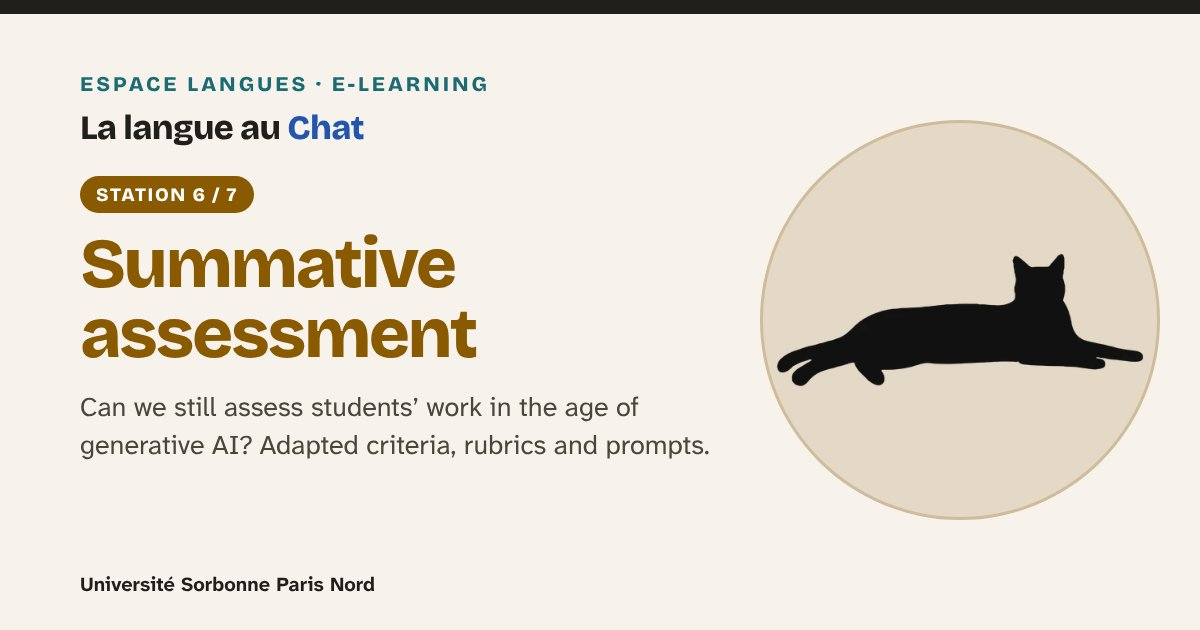
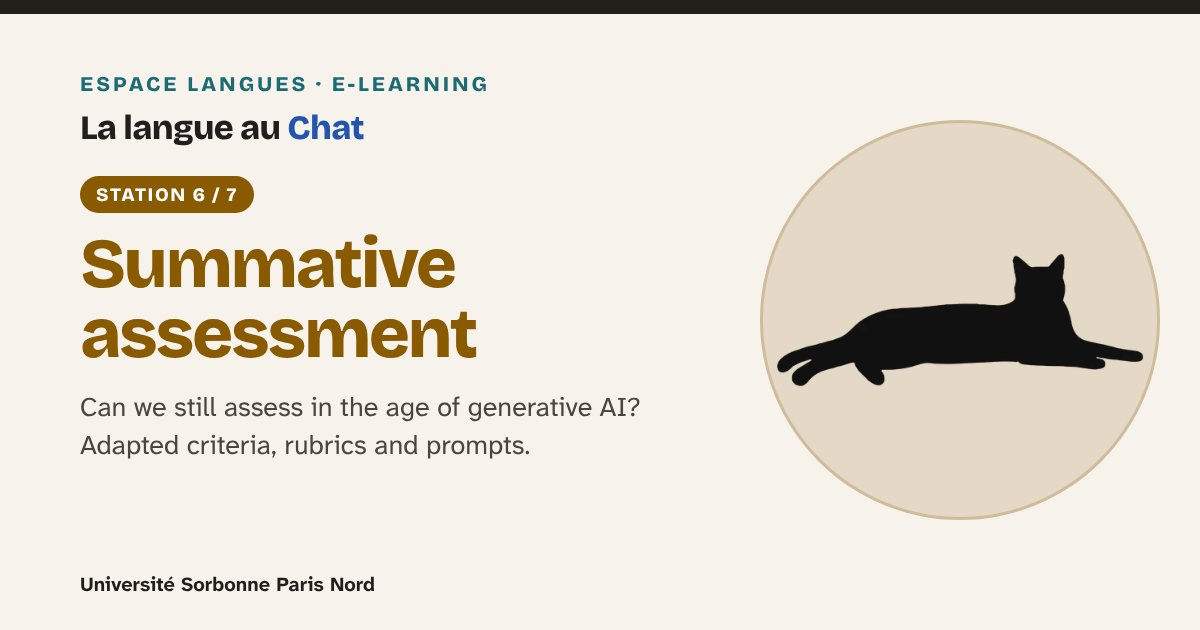
Bouton de copie qui indique la version du prompt (EN/ES), images de partage EN fidèles au français, vignette de la démo 1 refaite depuis la page du site
Claude-Session: https://claude.ai/code/session_01SBniN9QcJnc3Njnz1cARzX

Changed region(s): [[0.0617, 0.6937, 0.5858, 0.7238], [0.2467, 0.6333, 0.555, 0.6635]]

diff --git a/assets/site.js b/assets/site.js
@@ -9,8 +9,8 @@
   var root = document.documentElement;
   var L10N = {
     fr: { copied: "Copié !", copyFail: "Copie impossible : sélectionnez le texte à la main.", stamp: "Tampon posé !", ladder: "Niveaux de l’échelle", one: " résultat", many: " résultats", langRegion: "Langue", langMsg: "Cette page existe aussi en français.", langGo: "Lire en français", langClose: "Fermer", visited: " (station consultée)", defi1: "défi relevé", defiN: "défis relevés" },
-    en: { copied: "Copied!", copyFail: "Copy failed: please select the text manually.", stamp: "Stamp added!", ladder: "Scale levels", one: " result", many: " results", langRegion: "Language", langMsg: "This page is also available in English.", langGo: "Read in English", langClose: "Close", visited: " (visited)", defi1: "challenge completed", defiN: "challenges completed" },
-    es: { copied: "¡Copiado!", copyFail: "No se ha podido copiar: selecciona el texto manualmente.", stamp: "¡Sello puesto!", ladder: "Niveles de la escala", one: " resultado", many: " resultados", langRegion: "Idioma", langMsg: "Esta página también está disponible en español.", langGo: "Leer en español", langClose: "Cerrar", visited: " (visitada)", defi1: "reto superado", defiN: "retos superados" }
+    en: { copied: "Copied!", copyFail: "Copy failed: please select the text manually.", stamp: "Stamp added!", ladder: "Scale levels", one: " result", many: " results", langRegion: "Language", langMsg: "This page is also available in English.", langGo: "Read in English", langClose: "Close", visited: " (visited)", defi1: "challenge completed", defiN: "challenges completed", pv: [ [ "Copy the prompt (original, FR)", "Original prompt (FR) copied!" ], [ "Copy the prompt (adaptable, EN)", "Adaptable prompt (EN) copied!" ] ] },
+    es: { copied: "¡Copiado!", copyFail: "No se ha podido copiar: selecciona el texto manualmente.", stamp: "¡Sello puesto!", ladder: "Niveles de la escala", one: " resultado", many: " resultados", langRegion: "Idioma", langMsg: "Esta página también está disponible en español.", langGo: "Leer en español", langClose: "Cerrar", visited: " (visitada)", defi1: "reto superado", defiN: "retos superados", pv: [ [ "Copiar el prompt (original, FR)", "¡Prompt original (FR) copiado!" ], [ "Copiar el prompt (adaptable, ES)", "¡Prompt adaptable (ES) copiado!" ] ] }
   };
   var T = L10N[(root.getAttribute("lang") || "fr").slice(0, 2)] || L10N.fr;
   var store = {
@@ -408,8 +408,24 @@
       btns.forEach(function(b) {
         b.setAttribute("data-copy", t.getAttribute("aria-controls"));
       });
+      if (T.pv) {
+        var pn = document.getElementById(t.getAttribute("aria-controls")), lg = pn && pn.closest("[lang]");
+        var v = T.pv[lg && /^fr/i.test(lg.getAttribute("lang")) ? 0 : 1];
+        btns.forEach(function(b) {
+          if (b._lbl) b._lbl.nodeValue = " " + v[0];
+          b.setAttribute("aria-label", v[0] + (b._sfx || ""));
+          b.setAttribute("data-ok", v[1]);
+        });
+      }
       if (focus) t.focus();
     }
+    if (T.pv) btns.forEach(function(b) {
+      var tn = Array.prototype.filter.call(b.childNodes, function(c) {
+        return c.nodeType === 3 && c.nodeValue.trim();
+      }).pop(), vis = tn ? tn.nodeValue.trim() : "", al = b.getAttribute("aria-label") || "";
+      b._lbl = tn;
+      b._sfx = vis && al.indexOf(vis) === 0 ? al.slice(vis.length) : al.indexOf(":") > -1 ? al.slice(al.indexOf(":")) : "";
+    });
     tabs.forEach(function(t, i) {
       t.addEventListener("click", function() {
         pick(t);
@@ -423,6 +439,9 @@
         }
       });
     });
+    if (T.pv && tabs.length) pick(tabs.filter(function(x) {
+      return x.getAttribute("aria-selected") === "true";
+    })[0] || tabs[0]);
   });
   var visited = store.get("llc-vues", []);
   var sn = document.body.getAttribute("data-station");
